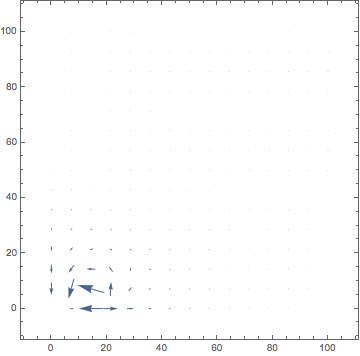
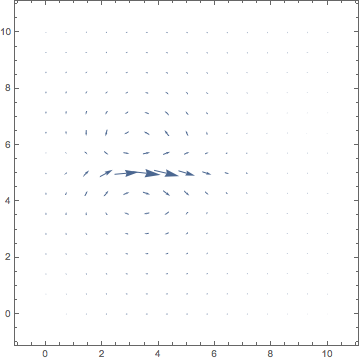
added density visualiser

diff --git a/src/visualiser.rs b/src/visualiser.rs
@@ -1,0 +1,173 @@
+
+use glium;
+
+use glium::{DisplayBuild, Surface};
+use glium::glutin::{Event, ElementState};
+use glium::glutin;
+use glium::backend;
+use glium::backend::glutin_backend::GlutinFacade;
+use glium::Program;
+use glium::VertexBuffer;
+use glium::IndexBuffer;
+use glium::index;
+use glium::DrawParameters;
+use glium::texture::RawImage2d;
+
+
+use fluid_solver::FluidSolver;
+use std::ops::Deref;
+
+
+
+#[derive(Copy, Clone)]
+pub struct Vertex {
+	pub position: [f64; 2],
+}
+
+implement_vertex!(Vertex, position);
+
+pub struct Visualiser {
+	display: GlutinFacade,
+	program: Program
+}
+
+impl Visualiser {
+	pub fn new() -> Visualiser {
+		let vertex_shader_src = r#"
+			#version 140
+		  	in vec2 position;
+
+		  	void main() {
+				gl_PointSize = 500.0;
+				gl_Position = vec4(position, 0.0, 1.0);
+		  	}
+		"#;
+
+		let fragment_shader_src = r#"
+			#version 140
+			out vec4 color;
+
+			uniform vec4 colour;
+
+			void main() {
+		 		color = colour;
+			}
+		"#;
+
+		let d = glutin::WindowBuilder::new().build_glium().unwrap();
+
+		Visualiser {
+			program: Program::from_source(&d, vertex_shader_src, fragment_shader_src, None).unwrap(),
+			display: d,
+		}
+	}
+
+	pub fn draw_density(&self, density: &Vec<Vec<f64>>) {
+
+		let dens: Vec<u32> = density.iter()
+						     		.flat_map(|v| v.iter().map(|v| *v as u32))
+						  			.collect();
+
+		let (w, h) = (density[0].len() as u32, density.len() as u32);
+
+		let tex = RawImage2d::from_raw_rgba_reversed(dens, (w, h) );
+		let opengl_texture = glium::texture::CompressedSrgbTexture2d::new(&self.display, tex).unwrap();
+
+
+		let vertex_buffer = {
+	        #[derive(Copy, Clone)]
+	        struct Vertex2 {
+	            position: [f32; 2],
+	            tex_coords: [f32; 2],
+	        }
+
+	        implement_vertex!(Vertex2, position, tex_coords);
+
+	        glium::VertexBuffer::new(&self.display,
+	            &[
+	                Vertex2 { position: [-1.0, -1.0], tex_coords: [0.0, 0.0] },
+	                Vertex2 { position: [-1.0,  1.0], tex_coords: [0.0, 1.0] },
+	                Vertex2 { position: [ 1.0,  1.0], tex_coords: [1.0, 1.0] },
+	                Vertex2 { position: [ 1.0, -1.0], tex_coords: [1.0, 0.0] }
+	            ]
+	        ).unwrap()
+    	};
+		let index_buffer = glium::IndexBuffer::new(&self.display, index::PrimitiveType::TriangleStrip, &[1 as u16, 2, 0, 3]).unwrap();
+		let program = program!(&self.display,
+	    	140 => {
+			   vertex: "
+				   #version 140
+				   uniform mat4 matrix;
+				   in vec2 position;
+				   in vec2 tex_coords;
+				   out vec2 v_tex_coords;
+				   void main() {
+					   gl_Position = matrix * vec4(position, 0.0, 1.0);
+					   v_tex_coords = tex_coords;
+				   }
+			   ",
+
+			   fragment: "
+				   #version 140
+				   uniform sampler2D tex;
+				   in vec2 v_tex_coords;
+				   out vec4 f_color;
+				   void main() {
+					   f_color = texture(tex, v_tex_coords);
+				   }
+			   "
+		   }).unwrap();
+		   let uniforms = uniform! {
+		   matrix: [
+			   [1.0, 0.0, 0.0, 0.0],
+			   [0.0, 1.0, 0.0, 0.0],
+			   [0.0, 0.0, 1.0, 0.0],
+			   [0.0, 0.0, 0.0, 1.0f32]
+		   ],
+		   tex: &opengl_texture
+	   };
+
+	   // drawing a frame
+	   let mut target = self.display.draw();
+	   target.clear_color(0.2, 0.2, 1.0, 1.0);
+	   target.draw(&vertex_buffer, &index_buffer, &program, &uniforms, &Default::default()).unwrap();
+	   target.finish().unwrap();
+
+
+	}
+
+	pub fn draw_markers(&self, points: &Vec<(f64, f64)>) {
+
+		let (pw, ph): (u32, u32) = self.display.get_window().unwrap().deref().get_inner_size_pixels().unwrap();
+
+		let mut ps = Vec::new();
+
+		for p in points {
+			let (x, y) = *p;
+			ps.push( Vertex { position: [ (2.0 * x  / 11.0) - 1.0 , (2.0 * y / 11.0) - 1.0 ] } )
+		}
+
+
+		let c: [f32; 4] = [1.0, 1.0, 0.0, 1.0];
+		//let c1: [f32; 4] = if c { [1.0, 0.0, 0.0, 1.0] } else { [0.0, 0.0, 0.0, 1.0] };
+
+		let vertex_buffer = VertexBuffer::new(&self.display, &ps).unwrap();
+        let indices = index::NoIndices(index::PrimitiveType::Points);
+
+
+		let params = DrawParameters {
+    		point_size: Some(5.0),
+    		.. Default::default()
+		};
+
+		let mut target = self.display.draw();
+        target.clear_color(0.2, 0.2, 1.0, 1.0);
+
+        target.draw(&vertex_buffer, &indices, &self.program, &uniform! { colour: c  }, &params).unwrap();
+        target.finish().unwrap();
+
+
+
+	}
+
+}

diff --git a/src/fluid_solver.rs b/src/fluid_solver.rs
@@ -5,6 +5,7 @@ use std::io::prelude::*;
 use std::fs::File;
 
 use linear_solvers;
+use integrators;
 
 pub fn matrix(row: i32, column: i32) -> Vec<Vec<f64>> {
 	let mut t: Vec<Vec<f64>> = Vec::new();
@@ -30,7 +31,7 @@ pub fn matrix(row: i32, column: i32) -> Vec<Vec<f64>> {
 #[derive(Clone)]
 pub struct Variable {
 	pub values: Vec<Vec<f64>>,
-	temp: Vec<Vec<f64>>,
+	pub temp: Vec<Vec<f64>>,
 	offset_x: f64,
 	offset_y: f64,
 }
@@ -186,6 +187,7 @@ pub struct FluidSolver {
 	pub velocity_x: Variable,
 	pub velocity_y: Variable,
 	pub density: Variable,
+	pub particles: Vec<(f64, f64)>,
 	divergence: Vec<f64>,
 	pressure: Vec<f64>,
 	fluid_density: f64,
@@ -197,10 +199,20 @@ pub struct FluidSolver {
 
 impl FluidSolver {
 	pub fn new(fluid_density: f64, rows: i32, columns: i32, dt: f64, dx: f64) -> FluidSolver {
+
+		let mut particles = Vec::new();
+
+		for i in 0..rows*10 {
+			for j in 0..columns*10 {
+				particles.push( (i as f64 * dx / 10.0, j as f64*dx / 10.0 ) );
+			}
+		}
+
  		FluidSolver {
  			velocity_x: Variable::new_zeroed(rows, columns+1, 0.0, 0.5),
  			velocity_y: Variable::new_zeroed(rows+1, columns, 0.5, 0.0),
 			density: Variable::new_zeroed(rows, columns, 0.5, 0.5),
+			particles: particles,
 			pressure: vec![0.0; (rows*columns) as usize],
 			divergence: vec![0.0; (rows*columns) as usize],
 			fluid_density: fluid_density,
@@ -242,12 +254,23 @@ impl FluidSolver {
 	// LP = D
 	// see diagram
 	pub fn pressure_solve(&mut self) {
-		linear_solvers::relaxation( FluidSolver::laplacian, &mut self.pressure, &self.divergence, self.columns, self.rows, self.fluid_density, self.dt, self.dx, 100 );
+		linear_solvers::relaxation( FluidSolver::laplacian, &mut self.pressure, &self.divergence, self.columns, self.rows, self.fluid_density, self.dt, self.dx, 70 );
 	}
 
 	pub fn solve(&mut self) {
 		self.project();
 		self.advect();
+	}
+
+	pub fn advect_particles(&mut self) {
+
+		for p in &mut self.particles {
+			let (x, y) = *p;
+			let u = self.velocity_x.interpolate_2d(x, y);
+			let v = self.velocity_y.interpolate_2d(x, y);
+			*p = integrators::integrate(x, y, u, v, self.dt);
+		}
+
 	}
 
 	pub fn advect(&mut self) {
@@ -257,6 +280,8 @@ impl FluidSolver {
 		self.velocity_x.advect(&u, &v, self.dt);
 		self.velocity_y.advect(&u, &v, self.dt);
 		self.density.advect(&u, &v, self.dt);
+
+		self.advect_particles();
 
 		swap(&mut self.velocity_x.values, &mut self.velocity_x.temp);
 		swap(&mut self.velocity_y.values, &mut self.velocity_y.temp);
@@ -311,7 +336,9 @@ impl FluidSolver {
 
 	pub fn add_source(&mut self, r: i32, c: i32, velocity_x: f64, velocty_y: f64, density: f64) {
 		self.velocity_x.values[r as usize][c as usize+1] = velocity_x;
+		self.velocity_x.values[r as usize][c as usize-1] = velocity_x;
 		self.velocity_y.values[r as usize+1][c as usize] = velocty_y;
+		self.velocity_y.values[r as usize-1][c as usize] = velocty_y;
 		self.density.values[r as usize][c as usize] = density;
 	}
 

diff --git a/src/main.rs b/src/main.rs
@@ -3,6 +3,7 @@ extern crate lodepng;
 
 use Fluids::fluid_solver::*;
 use Fluids::linear_solvers;
+use Fluids::visualiser::Visualiser;
 
 //p1---p2
 //|    |
@@ -111,16 +112,23 @@ fn b(c: i32) -> f64 {
 
 fn main() {
 
-    let mut solver = FluidSolver::new(1.0, 101, 101, 0.01, 0.1);
+    // let visualiser = Visualiser::new();
+
+    let mut solver = FluidSolver::new(1.0, 101, 101, 0.05, 1.0);
 
 
     // solver.set_flow(5, 0, 100.0, 0.0, 0.0);
     // solver.set_flow(5, 1, 100.0, 0.0, 0.0);
     // solver.set_flow(5, 2, 100.0, 0.0, 0.0);
 
+    for i in 0..11 {
+        for j in 0..11 {
+            //solver.add_source(i, j, 0.0, 0.0, 100.0);
+        }
+    }
 
+    //solver.add_source(5, 5, 100.0, 0.0, 0.0);
 
-    solver.add_source(2, 5, 700.0, 0.0, 0.0);
 
     // for i in 0..11 {
     //     for j in 0..11 {
@@ -128,11 +136,39 @@ fn main() {
     //     }
     // }
 
+    //println!("{:?}", solver.particles);
 
-    for i in 0..1000 {
+    //solver.add_source(50, 5, 100.0, 0.0, 500.0);
+
+
+    for i in 0..10000 {
+        solver.add_source(49, 1, 100.0, 0.0, 100.0);
+        solver.add_source(50, 1, 100.0, 0.0, 100.0);
+        solver.add_source(51, 1, 100.0, 0.0, 100.0);
+        solver.add_source(52, 1, 100.0, 0.0, 100.0);
+        solver.add_source(53, 1, 100.0, 0.0, 100.0);
+
         solver.solve();
-        //FluidSolver::print_variable(&solver.velocity_x);
+
+        if i % 4 == 0 {
+            let f = format!("images/density{}.png", i / 4);
+            FluidSolver::variable_image(&solver.density, &*f);
+        }
+
+        //println!("{:?}", solver.particles);
+        //visualiser.draw_markers( &solver.particles );
+        // let mut temp = Vec::new();
+        // for a in 0..101 {
+        //     let mut temp2 = Vec::new();
+        //     for b in 0..101 {
+        //         temp2.push(solver.density.interpolate_2d(b as f64, a as f64))
+        //     }
+        //     temp.push(temp2);
+        // }
+
+        //visualiser.draw_density( &solver.density.values );
     }
+
     //solver.print_velocity();
     //solver.calculate_divergence();
     //solver.print_divergence();
@@ -151,6 +187,9 @@ fn main() {
     //solver.print_velocity();
 
     solver.write_velocity();
+    //FluidSolver::print_variable(&solver.density);
+    //println!("{:?}", &solver.density.temp);
+    FluidSolver::variable_image(&solver.density, "density.png");
 
     //solver.solve();
     //solver.solve();

diff --git a/src/integrators.rs b/src/integrators.rs
@@ -1,0 +1,9 @@
+
+
+pub fn integrate(x: f64, y: f64, u: f64, v: f64, dt: f64) -> (f64, f64) {
+
+	let new_x = x as f64 + u * dt;
+	let new_y = y as f64 + v * dt;
+
+	(new_x, new_y)
+}

diff --git a/src/lib.rs b/src/lib.rs
@@ -1,4 +1,7 @@
+#[macro_use]
 extern crate glium;
 
 pub mod fluid_solver;
 pub mod linear_solvers;
+pub mod integrators;
+pub mod visualiser;
